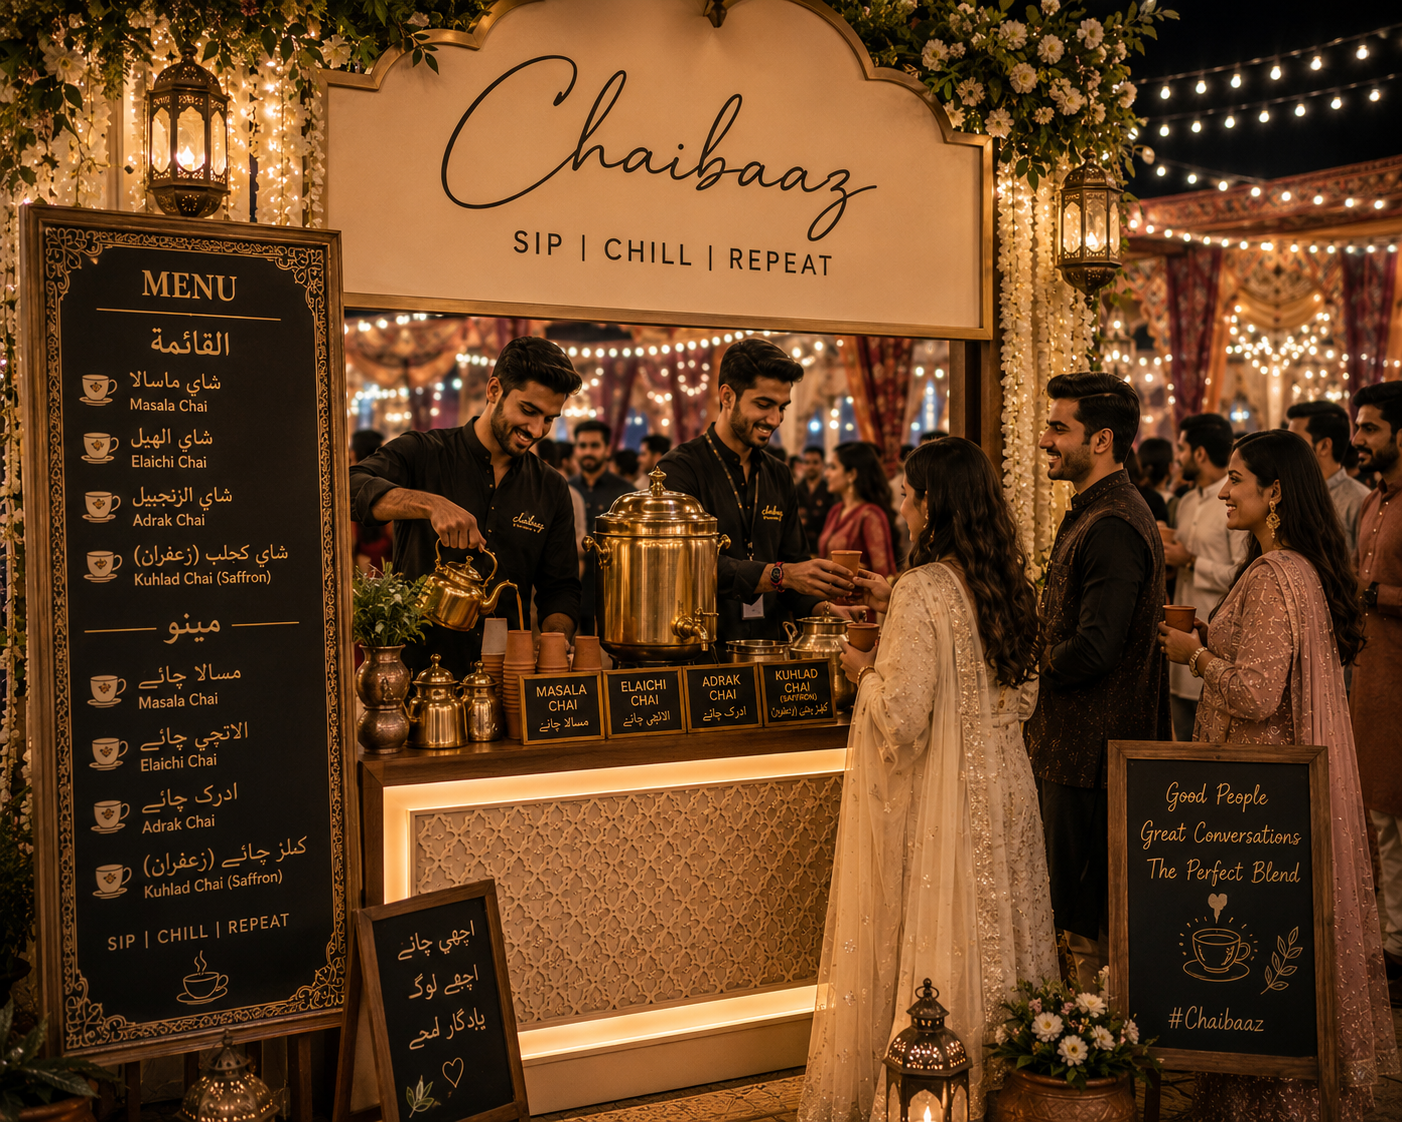
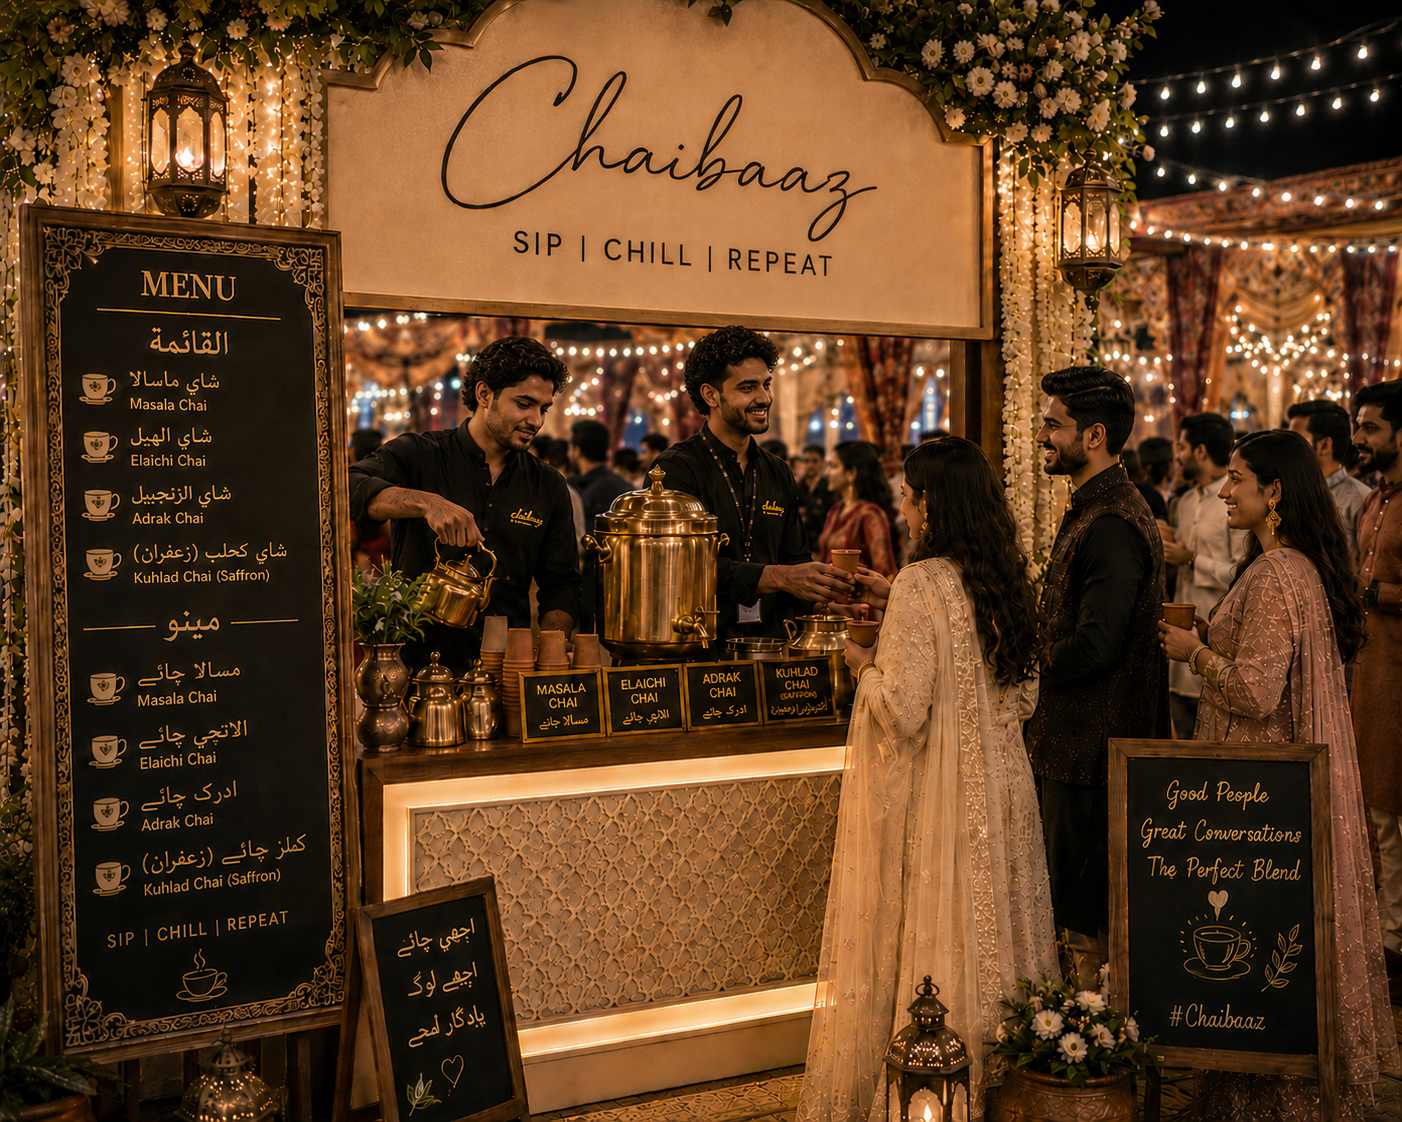
updated the miner changes

diff --git a/components/StorySection.tsx b/components/StorySection.tsx
@@ -130,10 +130,7 @@ export default function AboutSection() {
                   What we create
                 </p>
                 <p className="text-[#5B4636] leading-relaxed text-[15px] md:text-[17px]">
-                  Chaibaaz curates luxury chai catering experiences
-                  for weddings, private celebrations, corporate
-                  soirees, concerts, and premium cultural gatherings,
-                  blending timeless hospitality with elevated design.
+                  Chaibaaz curates elevated chai catering experiences for weddings, private celebrations, corporate events, concerts, and cultural gatherings, weaving timeless hospitality with refined presentation. 
                 </p>
               </motion.div>
 
@@ -147,9 +144,7 @@ export default function AboutSection() {
                   Our philosophy
                 </p>
                 <p className="text-[#5B4636] leading-relaxed text-[15px] md:text-[17px]">
-                  Every experience is designed with warmth,
-                  elegance, and intention transforming
-                  traditional chai into a refined luxury ritual.
+                  :Every experience is crafted with warmth, elegance, and intention, elevating traditional chai into a modern luxury ritual. 
                 </p>
               </motion.div>
 
@@ -273,9 +268,9 @@ export default function AboutSection() {
                 className="text-[#2A160D] text-lg sm:text-2xl"
                 style={{ fontFamily: "'Cormorant Garamond', serif" }}
               >
-                Luxury Chai
+                Luxury Chai Catering 
                 <br />
-                Experiences
+                Est. 2024 
               </h3>
             </motion.div>
 

diff --git a/components/WhyChooseUs.tsx b/components/WhyChooseUs.tsx
@@ -195,9 +195,7 @@ export default function WhyChooseUs() {
             mb-24
           "
         >
-          Chaibaaz transforms traditional chai into an elevated luxury
-          experience blending authentic flavors, refined presentation,
-          and immersive hospitality designed for unforgettable events.
+          Chaibaaz transforms traditional chai into an elevated luxury experience, blending authentic flavors, refined presentation, and immersive hospitality for unforgettable events. 
         </motion.p>
 
         {/* ───────────────── FEATURE CARDS ───────────────── */}

diff --git a/components/ServicePanels.tsx b/components/ServicePanels.tsx
@@ -20,7 +20,7 @@ const SERVICES = [
     title: 'Event Catering',
     description:
       'Premium hospitality experiences curated for grand corporate and luxury private events.',
-    image: '/gallery/event.jpg',
+    image: '/gallery/event.png',
   },
   {
     number: '03',
@@ -238,7 +238,9 @@ function ServiceCard({
               alignSelf: 'flex-start',
             }}
           >
+            <a href="#contact" >
             Enquire Now
+            </a>
             <motion.span
               variants={{ hover: { width: 40 } }}
               style={{

diff --git a/components/GallerySection.tsx b/components/GallerySection.tsx
@@ -27,7 +27,7 @@ const TOKEN = {
 ───────────────────────────────────────────── */
 const GALLERY = [
   {
-    image: '/gallery/event.jpg',
+    image: '/gallery/event.png',
     index: '01',
     label: 'Weddings',
     title: 'Luxury\nWedding Setup',

diff --git a/components/HeroSection.tsx b/components/HeroSection.tsx
@@ -14,7 +14,7 @@ import {
 const BACKGROUNDS = [
   '/images/herobg-1.png',
   '/images/chai-cart.jpg',
-  '/gallery/event.jpg',
+  '/gallery/event.png',
 ];
 
 const STORY = [
